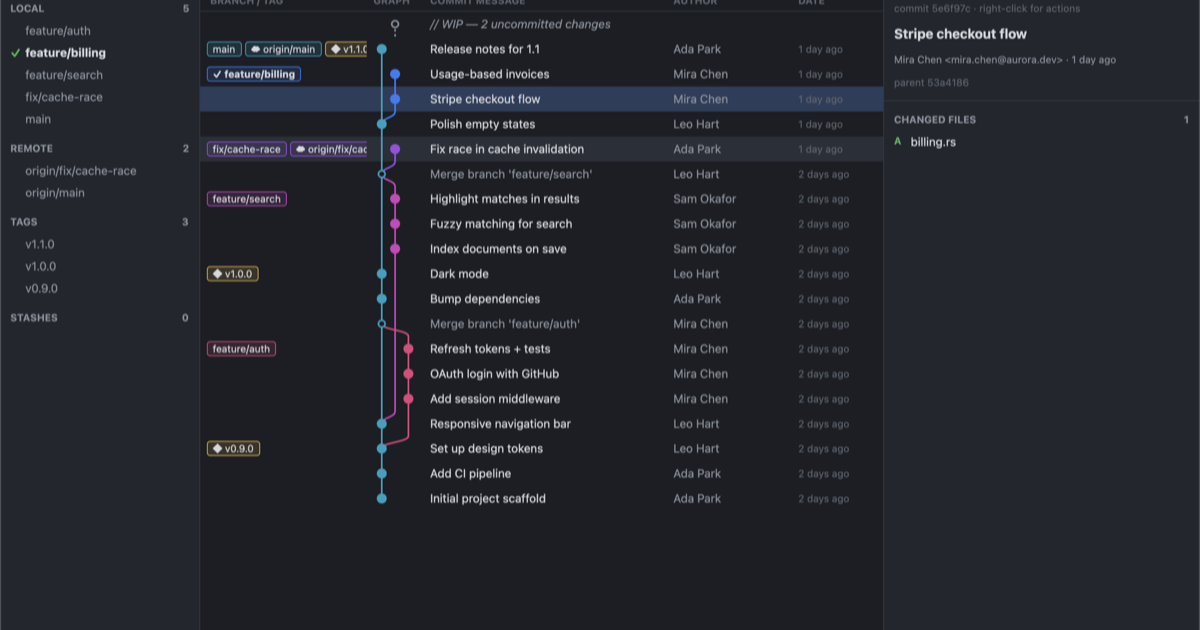
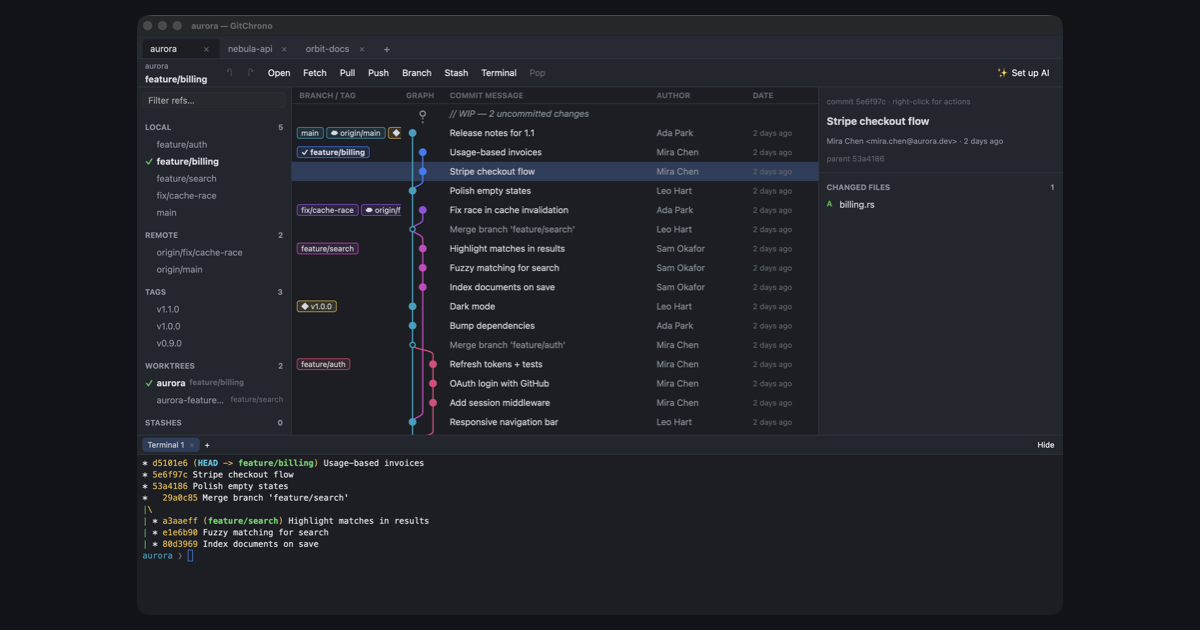
Website for v0.2.0: new screenshot and social image, feature cards for tabs, terminal, palette, undo, rebase/conflicts/blame and AI
Claude-Session: https://claude.ai/code/session_019Jh8FVawZoRiSqvN5GE6Jo

diff --git a/site/index.html b/site/index.html
@@ -35,7 +35,7 @@
         "description": "A fast, native Git GUI client written in Rust with a commit graph, line-level staging and diffs.",
         "applicationCategory": "DeveloperApplication",
         "operatingSystem": "macOS, Windows, Linux",
-        "softwareVersion": "0.1.0",
+        "softwareVersion": "0.2.0",
         "license": "https://www.apache.org/licenses/LICENSE-2.0",
         "downloadUrl": "https://github.com/KumaVolt/GitChrono/releases/latest",
         "screenshot": "https://gitchrono.com/assets/screenshot.png",
@@ -183,7 +183,11 @@
     .list span { color: var(--muted); font-size: 15px; }
 
     /* downloads */
-    .downloads { display: grid; grid-template-columns: repeat(4, 1fr); gap: 14px; margin-top: 44px; }
+    .downloads { display: grid; grid-template-columns: repeat(3, 1fr); gap: 14px; margin-top: 44px; }
+    .arch { display: flex; gap: 8px; margin-top: 8px; flex-wrap: wrap; }
+    .arch a { flex: 1; min-width: 0; text-align: center; padding: 7px 10px; border: 1px solid var(--border); border-radius: 9px; font-size: 12px; color: var(--muted); background: var(--panel); white-space: nowrap; }
+    .arch a:hover { border-color: #3d4452; color: var(--text); }
+    .arch a.mine { border-color: color-mix(in srgb, var(--blue) 60%, var(--border)); color: var(--text); }
     .dl { display: flex; flex-direction: column; gap: 6px; padding: 22px; border: 1px solid var(--border); border-radius: var(--radius); background: var(--bg-2); transition: border-color .15s ease, transform .15s ease; }
     .dl:hover { border-color: #3d4452; transform: translateY(-2px); }
     .dl.recommended { border-color: color-mix(in srgb, var(--blue) 60%, var(--border)); box-shadow: 0 0 0 1px color-mix(in srgb, var(--blue) 30%, transparent) inset; }
@@ -269,7 +273,7 @@
       <div class="fine" id="hero-fine">macOS · Windows · Linux — free</div>
 
       <div class="shot">
-        <img src="assets/screenshot.png" width="2000" height="1296" fetchpriority="high" alt="GitChrono Git GUI showing a colorful commit graph with branches, tags and a commit detail panel">
+        <img src="assets/screenshot.png" width="2000" height="1296" fetchpriority="high" alt="GitChrono with repository tabs, a colorful commit graph, a worktree in the sidebar and the built-in terminal">
       </div>
 
       <div class="stats">
@@ -316,6 +320,36 @@
           <h3>Behaves exactly like git</h3>
           <p>Writes go through your own git, so hooks, SSH keys, credential helpers and commit signing all just work.</p>
         </div>
+        <div class="card" style="--c: var(--cyan)">
+          <div class="ico"><svg viewBox="0 0 24 24" fill="none" stroke="currentColor" stroke-width="2" stroke-linecap="round"><rect x="3" y="6" width="18" height="14" rx="2"/><path d="M3 10h18M8 6V4h5v2"/></svg></div>
+          <h3>Tabs and project folders</h3>
+          <p>A tab per repository, restored on launch. Add a parent folder once and every repository inside it is one click away.</p>
+        </div>
+        <div class="card" style="--c: var(--green)">
+          <div class="ico"><svg viewBox="0 0 24 24" fill="none" stroke="currentColor" stroke-width="2" stroke-linecap="round"><rect x="3" y="4" width="18" height="16" rx="2"/><path d="m7 9 3 3-3 3M13 15h4"/></svg></div>
+          <h3>Built-in terminal</h3>
+          <p>A real shell in every repository, with colors, completion and selection. Open as many as you like with ⌥T.</p>
+        </div>
+        <div class="card" style="--c: var(--blue)">
+          <div class="ico"><svg viewBox="0 0 24 24" fill="none" stroke="currentColor" stroke-width="2" stroke-linecap="round"><circle cx="11" cy="11" r="6"/><path d="m20 20-4.5-4.5"/></svg></div>
+          <h3>Palette and search</h3>
+          <p>⌘P runs any action, checks out any branch or opens any repository. ⌘F searches history by message, author or SHA.</p>
+        </div>
+        <div class="card" style="--c: var(--violet)">
+          <div class="ico"><svg viewBox="0 0 24 24" fill="none" stroke="currentColor" stroke-width="2" stroke-linecap="round"><path d="M9 14 4 9l5-5"/><path d="M4 9h11a5 5 0 0 1 0 10h-3"/></svg></div>
+          <h3>Undo anything</h3>
+          <p>Commit, reset, rebase, checkout, branch or tag: ⌘Z takes it back without ever overwriting your uncommitted work.</p>
+        </div>
+        <div class="card" style="--c: var(--pink)">
+          <div class="ico"><svg viewBox="0 0 24 24" fill="none" stroke="currentColor" stroke-width="2" stroke-linecap="round"><path d="M6 3v12M18 9a3 3 0 1 0 0-6 3 3 0 0 0 0 6zM6 21a3 3 0 1 0 0-6 3 3 0 0 0 0 6zM18 9a9 9 0 0 1-9 9"/></svg></div>
+          <h3>Rebase, resolve, blame</h3>
+          <p>Reorder, squash and reword commits, resolve conflicts side by side, and follow any file through history and blame.</p>
+        </div>
+        <div class="card" style="--c: var(--amber)">
+          <div class="ico"><svg viewBox="0 0 24 24" fill="none" stroke="currentColor" stroke-width="2" stroke-linecap="round"><path d="M12 3v4M12 17v4M3 12h4M17 12h4M6 6l2.5 2.5M15.5 15.5 18 18M6 18l2.5-2.5M15.5 8.5 18 6"/></svg></div>
+          <h3>AI commit messages</h3>
+          <p>One click writes a commit message in your repository's style, using your own OpenAI, Anthropic, Mistral, Gemini or local model.</p>
+        </div>
       </div>
     </div>
   </section>
@@ -358,14 +392,14 @@ repo.<span class="f">apply_patch</span>(&amp;patch, ApplyMode::Stage)?;
           <svg viewBox="0 0 24 24" fill="currentColor"><path d="M3 5.5 10.5 4.4v7.1H3zm0 13L10.5 19.6v-7H3zm8.5 1.2L21 21v-8.4h-9.5zm0-15.4v7.2H21V3z"/></svg>
           <b>Windows</b><span>64-bit</span><span class="file mono">.zip</span>
         </a>
-        <a class="dl" data-os="linux" data-match="linux-x86_64.tar.gz" href="https://github.com/KumaVolt/GitChrono/releases/latest">
+        <div class="dl" data-os="linux">
           <svg viewBox="0 0 24 24" fill="none" stroke="currentColor" stroke-width="2" stroke-linecap="round"><rect x="3" y="4" width="18" height="16" rx="2"/><path d="m7 9 3 3-3 3M13 15h4"/></svg>
-          <b>Linux</b><span>x86_64</span><span class="file mono">.tar.gz</span>
-        </a>
-        <a class="dl" data-os="linux-arm" data-match="linux-aarch64.tar.gz" href="https://github.com/KumaVolt/GitChrono/releases/latest">
-          <svg viewBox="0 0 24 24" fill="none" stroke="currentColor" stroke-width="2" stroke-linecap="round"><rect x="6" y="6" width="12" height="12" rx="2"/><path d="M9 2v4M15 2v4M9 18v4M15 18v4M2 9h4M2 15h4M18 9h4M18 15h4"/></svg>
-          <b>Linux ARM</b><span>aarch64</span><span class="file mono">.tar.gz</span>
-        </a>
+          <b>Linux</b><span>x86_64 or ARM64</span>
+          <div class="arch">
+            <a data-os="linux" data-match="linux-x86_64.tar.gz" data-label="x86_64" href="https://github.com/KumaVolt/GitChrono/releases/latest">x86_64</a>
+            <a data-os="linux-arm" data-match="linux-aarch64.tar.gz" data-label="ARM64" href="https://github.com/KumaVolt/GitChrono/releases/latest">ARM64</a>
+          </div>
+        </div>
       </div>
       <div class="release-meta" id="release-meta">Builds are published on <a href="https://github.com/KumaVolt/GitChrono/releases">GitHub Releases</a>.</div>
     </div>
@@ -444,10 +478,12 @@ repo.<span class="f">apply_patch</span>(&amp;patch, ApplyMode::Stage)?;
       const ua = navigator.userAgent;
       const os = /Mac/.test(ua) ? 'mac' : /Win/.test(ua) ? 'win' : /Linux/.test(ua) ? (/aarch64|arm/i.test(ua) ? 'linux-arm' : 'linux') : null;
       const names = { mac: 'macOS', win: 'Windows', linux: 'Linux', 'linux-arm': 'Linux ARM' };
-      const cards = Array.from(document.querySelectorAll('.dl'));
+      // Every download link (whole cards for macOS/Windows, the arch buttons for Linux).
+      const cards = Array.from(document.querySelectorAll('.downloads [data-match]'));
       const mine = cards.find(c => c.dataset.os === os);
       if (mine) {
-        mine.classList.add('recommended');
+        mine.closest('.dl').classList.add('recommended');
+        if (!mine.classList.contains('dl')) mine.classList.add('mine');
         document.getElementById('hero-download-label').textContent = 'Download for ' + names[os];
       }
 
@@ -458,7 +494,10 @@ repo.<span class="f">apply_patch</span>(&amp;patch, ApplyMode::Stage)?;
             const asset = release.assets.find(a => a.name.endsWith(card.dataset.match));
             if (!asset) continue;
             card.href = asset.browser_download_url;
-            card.querySelector('.file').textContent = asset.name + ' · ' + (asset.size / 1048576).toFixed(1) + ' MB';
+            const size = (asset.size / 1048576).toFixed(1) + ' MB';
+            const file = card.querySelector('.file');
+            if (file) file.textContent = (asset.name.endsWith('.tar.gz') ? 'tar.gz' : asset.name.split('.').pop()) + ' · ' + size;
+            else card.textContent = card.dataset.label + ' · ' + size;
           }
           if (mine && mine.href.includes('/download/')) document.getElementById('hero-download').href = mine.href;
           const date = new Date(release.published_at).toLocaleDateString(undefined, { year: 'numeric', month: 'long', day: 'numeric' });
